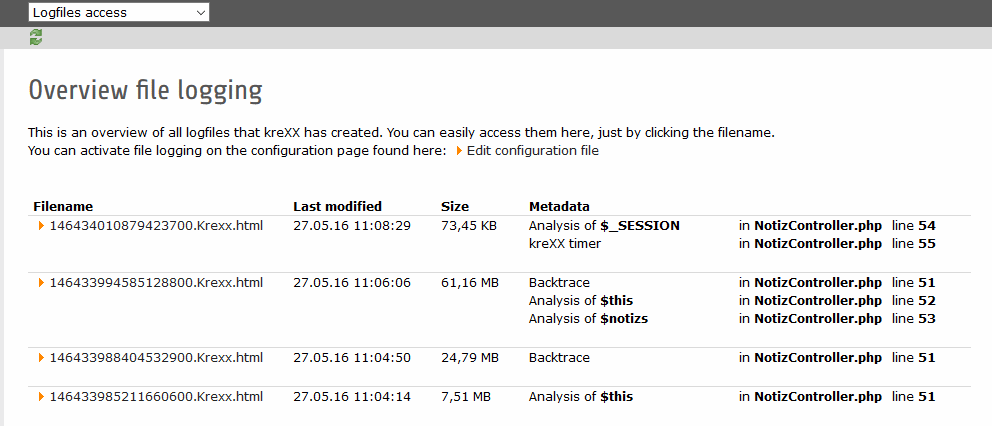
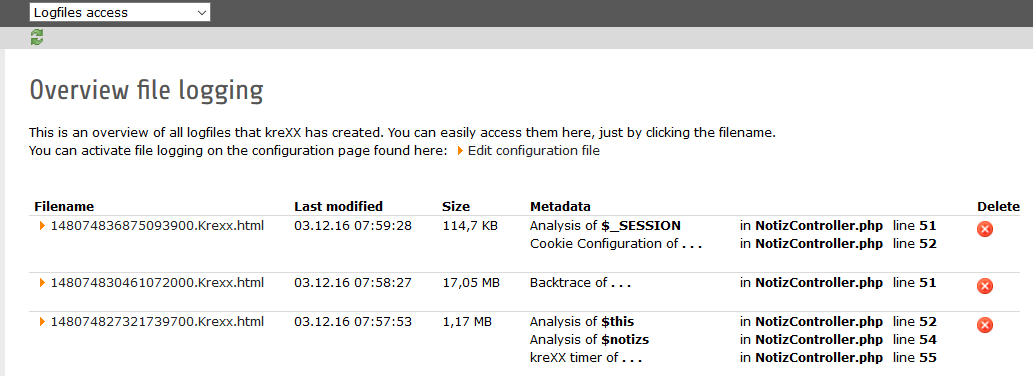
- Updated the documentation. - Added css style to the delete button.

diff --git a/Resources/Private/Templates/Log/List.html b/Resources/Private/Templates/Log/List.html
@@ -62,7 +62,7 @@
                         </tbody>
                     </table>
                 </td>
-                <td><f:link.action controller="Log" action="delete" arguments="{id: '{file.id}'}"><f:image width="16" src="{f:uri.resource(path:'Icons/delete.png')}" alt="{f:translate(key:'log.delete')}"/></f:link.action></td>
+                <td><f:link.action controller="Log" action="delete" arguments="{id: '{file.id}'}"><f:image width="16" class="delete" src="{f:uri.resource(path:'Icons/delete.png')}" alt="{f:translate(key:'log.delete')}"/></f:link.action></td>
             </tr>
         </f:for>
     </table>

diff --git a/Resources/Public/Css/Backend.css b/Resources/Public/Css/Backend.css
@@ -139,3 +139,6 @@ table.noborder {
 td.metatype {
     min-width: 200px;
 }
+img.delete {
+    margin-top: 5px;
+}

diff --git a/Documentation/Logging/Index.rst b/Documentation/Logging/Index.rst
@@ -24,19 +24,20 @@ Just change the output option **Destination** from **frontend** to **file**.
 |
 |
 
-Unless configured otherwise, kreXX will store all logfiles inside the directory
+kreXX will store all logfiles inside the directory
 
 .. code-block:: typoscript
 
 	typo3conf/ext/includekrexx/Resources/Private/krexx/log
 
-All debug data from one request will be stored inside a single file. When a new request is triggered, kreXX will create a new file.
-To prevent these files from clogging up your system, kreXX will only keep 10 files and automatically delete older ones. This value can also be changed the logging option **Maximum files in the logfolder** to any number bigger than **0**.
+| All debug data from one request will be stored inside two single files, one with the HTML output and a json with some meta data for the backend.
+| To prevent these files from clogging up your system, kreXX will only keep 10 files and automatically delete older ones. This value can also be changed the logging option **Maximum files in the logfolder** to any number bigger than **0**.
+| You can also delete these files in the backend .
 
 |
 
 .. figure:: ../Images/Logging/logfiles.png
-	:width: 992px
+	:width: 1033px
 	:alt: Logfiles backend menu
 
 	To make these logfiles easier accessible, we have provided a backend menu, where you can easily view them.

diff --git a/Documentation/Config/Options/Index.rst b/Documentation/Config/Options/Index.rst
@@ -107,4 +107,3 @@ Error Handling and Backtrace
 |                                | | :literal:`\krexx::unregisterFatal();`                                                                                                |                           |
 |                                | | to prevent a slowdown.                                                                                                               |                           |
 +--------------------------------+----------------------------------------------------------------------------------------------------------------------------------------+---------------------------+
-
